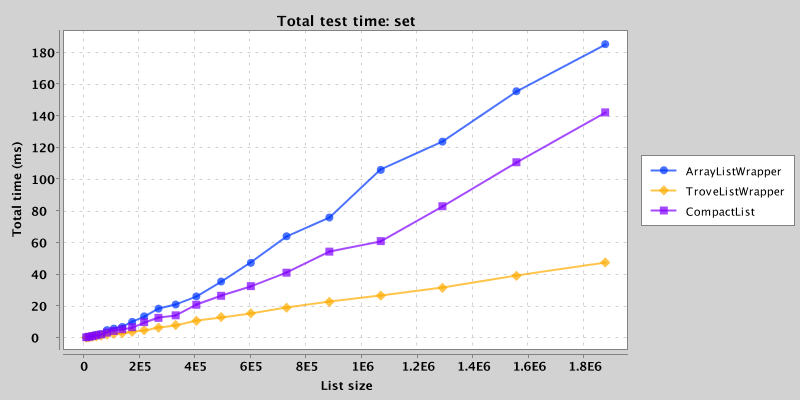
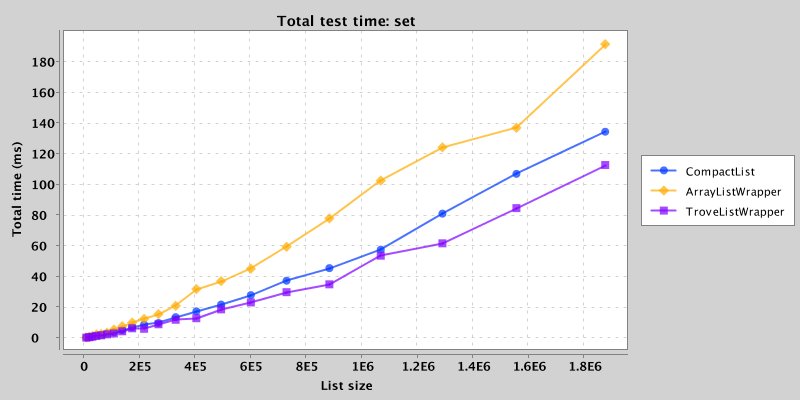
Large improvement to remove op performance using zero-copy node splitting

diff --git a/src/main/java/net/kothar/compactlist/internal/Node.java b/src/main/java/net/kothar/compactlist/internal/Node.java
@@ -30,7 +30,6 @@ public class Node implements Iterable<Long>, LongList, Serializable {
 
 	private static final int	READ_COMPACTION_DELAY	= 1 << 10;
 	private static final int	TARGET_LEAF_SIZE		= 1 << 16;
-	private static final int	TARGET_REMOVE_SIZE		= 1 << 4;
 	private static final int	MAX_LEAF_SIZE			= 1 << 20;
 
 	protected int		size;
@@ -161,31 +160,15 @@ public class Node implements Iterable<Long>, LongList, Serializable {
 	public long removeLong(int index) {
 		assert index < size && index >= 0;
 
-		// If we can't safely remove an element, decompact the store
-		if (isLeaf() && index < size - 1 && !elements.isPositionIndependent()) {
-			if (size > TARGET_REMOVE_SIZE) {
-				if (index > TARGET_REMOVE_SIZE && size - index > TARGET_REMOVE_SIZE) {
-					// Both sides will be large enough
-					split(index + 1);
-					size--;
-					return left.removeLong(index);
-				} else {
-					// Don't make segments too small
-					split(size / 2);
-					return removeLong(index);
-				}
-			}
-
-			elements = new LongArrayStore(elements);
-			dirty = true;
-		}
-
-		// Leaf
-		size--;
 		long oldValue;
 		if (isLeaf()) {
 			lastWrite = ++operation;
-			return elements.remove(index);
+			if (index == 0 || index == size - 1) {
+				oldValue = elements.remove(index);
+			} else {
+				split(index + 1);
+				oldValue = left.removeLong(index);
+			}
 		} else if (index < left.size) {
 			// Left branch
 			oldValue = left.removeLong(index);
@@ -194,13 +177,17 @@ public class Node implements Iterable<Long>, LongList, Serializable {
 			oldValue = right.removeLong(index - left.size);
 		}
 
-		if (size <= TARGET_REMOVE_SIZE) {
-			// TODO do this as part of the pre-removal step
-			merge();
+		size--;
+		if (size == 0) {
+			elements = new LongArrayStore();
+			left = null;
+			right = null;
+			height = 0;
+			lastWrite = operation;
+			dirty = true;
 		} else {
 			balance();
 		}
-
 		return oldValue;
 	}
 
@@ -221,6 +208,8 @@ public class Node implements Iterable<Long>, LongList, Serializable {
 			elements = null;
 			height = 1;
 
+			assert left.size == pivot;
+			assert right.size == size - pivot;
 		} else if (pivot < left.size) {
 			left.split(pivot);
 			balance();

diff --git a/src/test/java/net/kothar/compactlist/CompactListBenchmark.java b/src/test/java/net/kothar/compactlist/CompactListBenchmark.java
@@ -49,11 +49,11 @@ public class CompactListBenchmark {
 		System.out.println("Test\t\tCount\t\tClass\t\t\tElapsed");
 
 		Map<String, Test> tests = new LinkedHashMap<>();
+		tests.put("remove", removeRandom);
 		tests.put("append", appendSequential);
 		tests.put("appendRandom", appendRandom);
 		tests.put("insert", insertSequential);
 		tests.put("set", setSeq);
-		tests.put("remove", removeRandom);
 
 		for (Entry<String, Test> testEntry : tests.entrySet()) {
 
@@ -61,9 +61,9 @@ public class CompactListBenchmark {
 			Map<Class<? extends LongList>, Map<Integer, Long>> testMemory = new LinkedHashMap<>();
 
 			for (Class<? extends LongList> impl : Arrays.asList(
+				CompactList.class,
 				ArrayListWrapper.class,
 				TroveListWrapper.class,
-				CompactList.class,
 				CSViewLongList.class)) {
 
 				TreeMap<Integer, Double> classData = new TreeMap<>();
